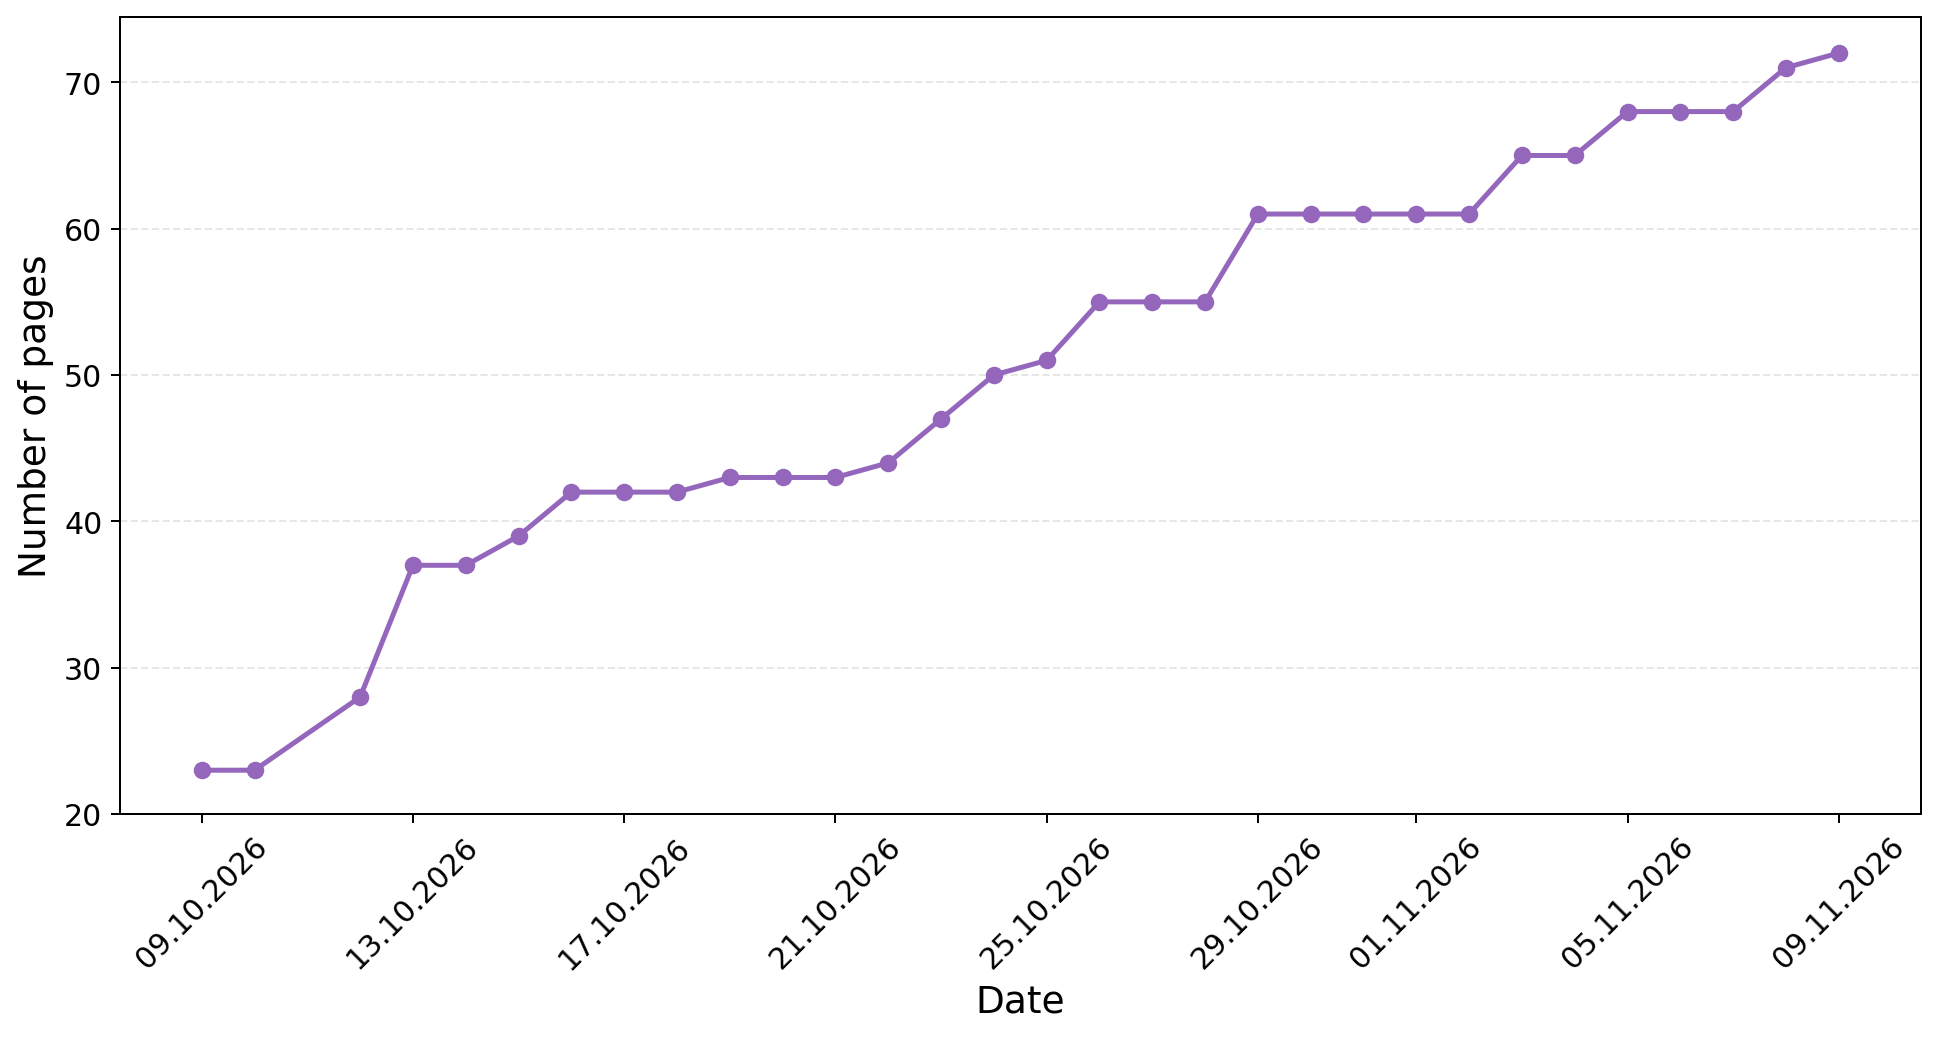
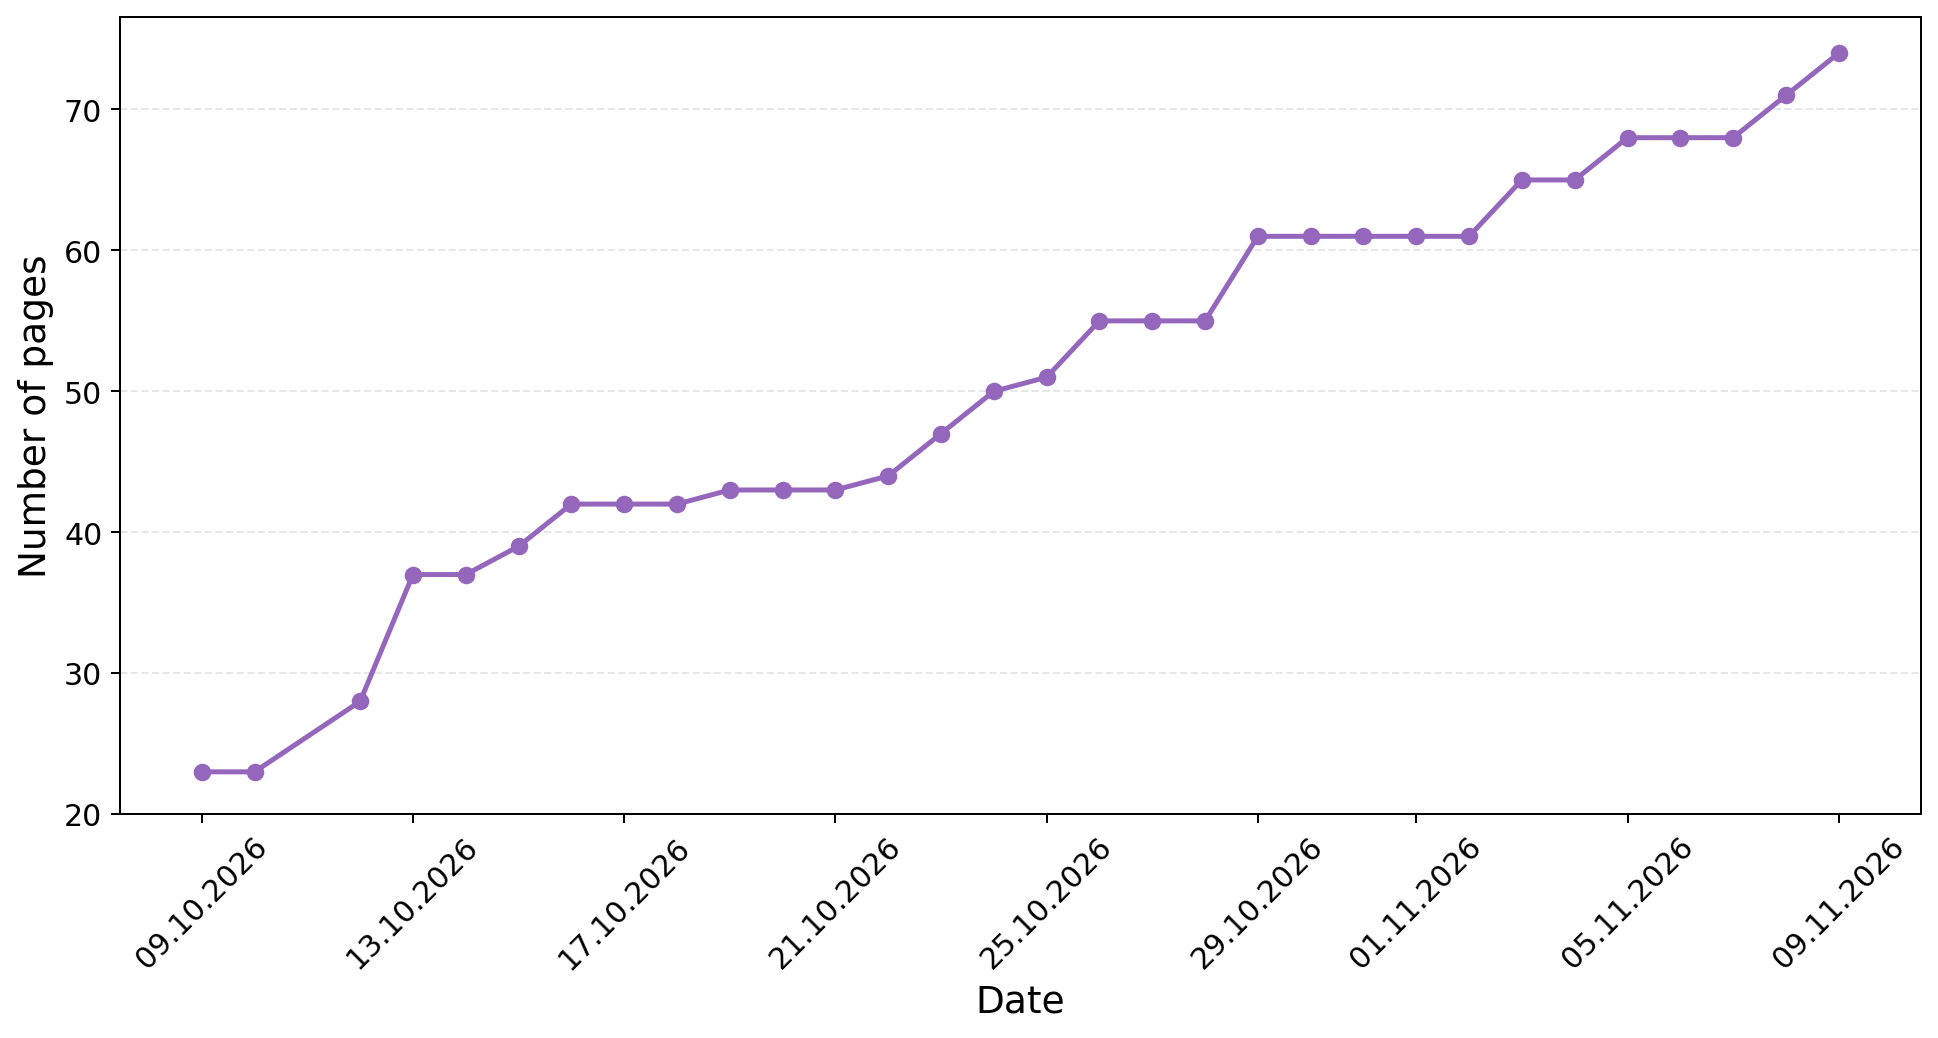
Update thesis progress dashboard

diff --git a/index.html b/index.html
@@ -12,7 +12,7 @@
     <p class="eyebrow">THESIS WRITING LOG</p>
     <h1>Thesis Progress</h1>
     <p>A visual overview of writing progress over time.</p>
-    <p class="updated">Last updated: 2026-11-09 11:48 CET</p>
+    <p class="updated">Last updated: 2026-11-09 23:07 CET</p>
   </header>
 
   <main>
@@ -28,40 +28,40 @@
 
         <article class="summary-card">
           <p class="summary-label">Total words</p>
-          <p class="summary-total">9,207</p>
+          <p class="summary-total">9,285</p>
           <p class="summary-change"
              style="color: #16A34A;">
-            +199 this week
+            +277 this week
           </p>
         </article>
         
 
         <article class="summary-card">
           <p class="summary-label">Total lines</p>
-          <p class="summary-total">1,278</p>
+          <p class="summary-total">1,295</p>
           <p class="summary-change"
              style="color: #16A34A;">
-            +16 this week
+            +33 this week
           </p>
         </article>
         
 
         <article class="summary-card">
           <p class="summary-label">Total pages</p>
-          <p class="summary-total">72</p>
+          <p class="summary-total">74</p>
           <p class="summary-change"
              style="color: #16A34A;">
-            +1 this week
+            +3 this week
           </p>
         </article>
         
 
         <article class="summary-card">
           <p class="summary-label">Total figures</p>
-          <p class="summary-total">24</p>
+          <p class="summary-total">25</p>
           <p class="summary-change"
              style="color: #16A34A;">
-            +1 this week
+            +2 this week
           </p>
         </article>
         
@@ -88,10 +88,10 @@
 
         <article class="summary-card">
           <p class="summary-label">Total sections</p>
-          <p class="summary-total">103</p>
+          <p class="summary-total">108</p>
           <p class="summary-change"
-             style="color: #64748B;">
-            No change this week
+             style="color: #16A34A;">
+            +5 this week
           </p>
         </article>
         
